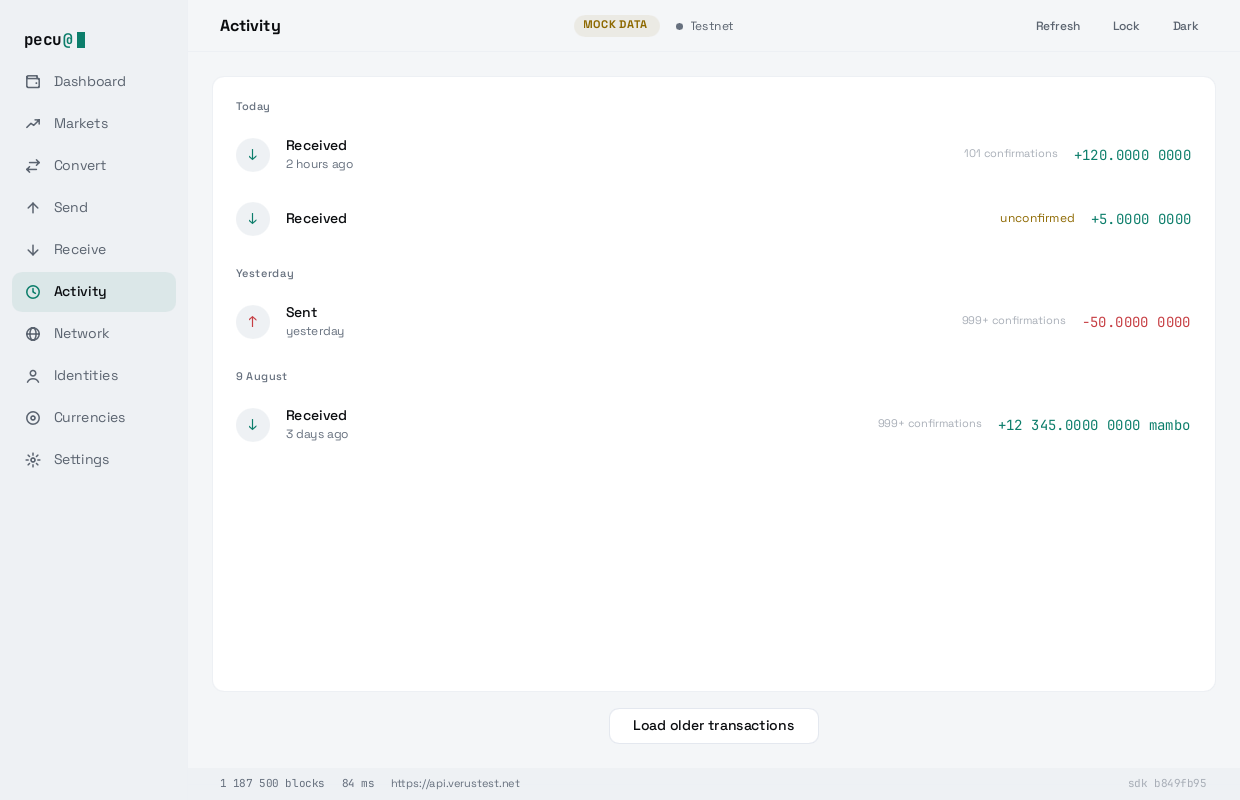
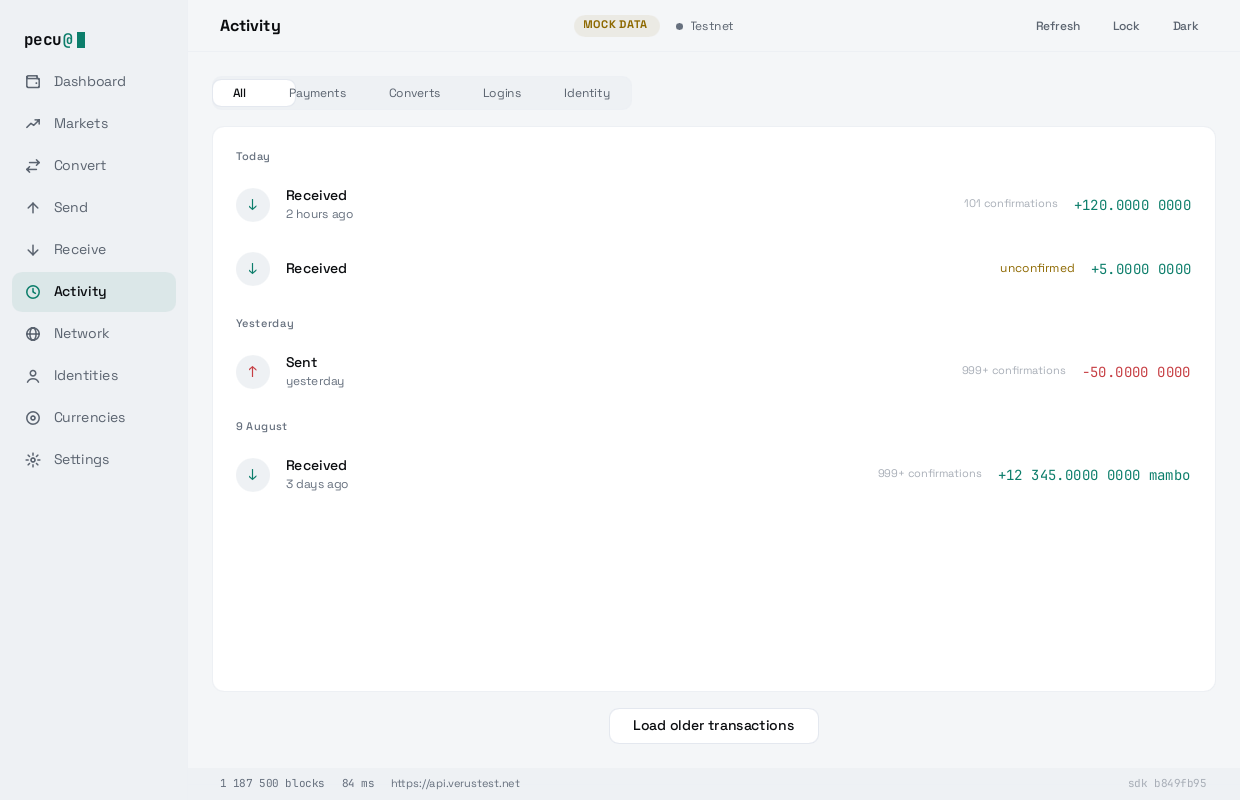
Give history its filters, and find out where they have to live
The design's activity screen: a summary strip, filter chips, day
headings, and rows that look like what they are rather than all like a
payment. A login, a conversion and an identity action each get their own
mark, title and subtitle.

Three of the four kinds cannot be produced by this wallet. History is
read from address deltas and none of them is one — they arrive when VDXF
consent, the conversion flow and `getidentityhistory` do. They are
fixtures here so the shapes are settled and photographed before the
features land, rather than being designed in a hurry on the day.

## The filter had to move into the core, and the reason is mechanical

The first attempt filtered in `.slint`. Equality against `kind` is
something Slint *can* express — unlike the substring test the command
palette needed — so non-matching rows got `visible: false` and a zeroed
height.

**A `ListView` places its items by their preferred height.** Six rows
drew in two slots, on top of each other. That is not a bug in the trick;
it is what virtualisation means, and no arrangement of it works: the list
needs exactly one element per model row.

So `Command::SetHistoryFilter` goes to the core, which filters and
re-sends. That is where it belonged anyway — filtering and **paging** are
one question, because "load older" reads the next window of blocks rather
than the next twenty rows of a kind, and only the side holding the list
can reconcile the two.
[…]

diff --git a/crates/pecu-ui/src/fixtures.rs b/crates/pecu-ui/src/fixtures.rs
@@ -24,8 +24,8 @@ use crate::{
     CurrencyProblem, CurrencyRow, CurrencySlice, CurrencyState, EligibleIdentity, FlowStep,
     ConvertState, IdentityRow, IdentityState, KeyRow, KnownAddressRow, MarketRow, MarketState,
     NetworkState, NodeRow, PendingRow,
-    PreallocEntry, ReserveEntry, ReviewOutput, SearchHit, SearchState, SeedState, SeedWord,
-    SendState, Stat, TxState, Venue, WalletState,
+    ActivityState, PreallocEntry, ReserveEntry, ReviewOutput, SearchHit, SearchState, SeedState,
+    SeedWord, SendState, Stat, TxState, Venue, WalletState,
 };
 
 /// A conversion being priced.
@@ -96,6 +96,74 @@ pub fn converting_refused(ui: &AppWindow) {
             .into(),
     );
     state.set_ready(false);
+}
+
+/// The history screen with every kind of row on it.
+///
+/// Three of the four kinds cannot be produced by this wallet — see
+/// `activity_of`. They are here so the filters, the marks and the subtitles are
+/// settled and photographed before the features behind them land, rather than
+/// being designed in a hurry on the day they do.
+pub fn history(ui: &AppWindow) {
+    funded(ui);
+    ui.set_screen("activity".into());
+
+    let wallet = ui.global::<WalletState>();
+    wallet.set_history(ModelRc::from(Rc::new(VecModel::from(vec![
+        dated("in", "+120.0000 0000", "14:02", "Today", 1_187_400),
+        activity_of(
+            "login",
+            "forum.verus.io · as robert.VRSCTEST@",
+            "—",
+            "13:40",
+            "",
+        ),
+        dated("out", "−50.0000 0000", "11:38", "", 1_187_380),
+        activity_of(
+            "convert",
+            "250 VRSCTEST → 134.12 DAI.vETH · via Bridge.vETH",
+            "250.0000 0000",
+            "09:15",
+            "",
+        ),
+        activity_of(
+            "identity",
+            "Recovery address changed",
+            "—",
+            "08:05",
+            "Yesterday",
+        ),
+        dated("in", "+5.0000 0000", "pending", "", 0),
+    ]))));
+
+    // Invented, like every other summary figure in this build. The core counts
+    // none of these yet.
+    ui.global::<ActivityState>()
+        .set_stats(ModelRc::from(Rc::new(VecModel::from(vec![
+            Stat {
+                label: "Transactions · 30d".into(),
+                value: "48".into(),
+            },
+            Stat {
+                label: "Sent · 30d".into(),
+                value: "3 410.00".into(),
+            },
+            Stat {
+                label: "Received · 30d".into(),
+                value: "5 102.00".into(),
+            },
+            Stat {
+                label: "Sign-ins · 30d".into(),
+                value: "12".into(),
+            },
+        ]))));
+}
+
+/// The same list with one filter applied, which is the state the filters exist
+/// for and the one that shows what they do to a short list.
+pub fn history_filtered(ui: &AppWindow) {
+    history(ui);
+    ui.global::<ActivityState>().set_filter("payment".into());
 }
 
 /// The markets table, with nothing picked.
@@ -791,6 +859,29 @@ fn activity_in(
         pending,
         height: 0,
         group: group.into(),
+        kind: "payment".into(),
+        note: "".into(),
+    }
+}
+
+/// A row that is not a payment: a login, an identity action, a conversion.
+///
+/// None of these can be produced by this wallet yet — history is read from
+/// address deltas, and none of the three is one. They exist so the filters and
+/// the row styling have something to be photographed against, and so the shapes
+/// are settled before the features arrive.
+fn activity_of(kind: &str, note: &str, amount: &str, when: &str, group: &str) -> ActivityRow {
+    ActivityRow {
+        txid: "fixture-not-a-real-transaction".into(),
+        txid_short: "fixtu…ction".into(),
+        direction: "self".into(),
+        amount: amount.into(),
+        when: when.into(),
+        pending: false,
+        height: 1_187_400,
+        group: group.into(),
+        kind: kind.into(),
+        note: note.into(),
     }
 }
 

diff --git a/crates/pecu-core/src/lib.rs b/crates/pecu-core/src/lib.rs
@@ -127,6 +127,7 @@ pub fn start(
         last_draft: pecu_protocol::SendDraft::default(),
         identities: std::collections::BTreeMap::new(),
         currencies: Vec::new(),
+        history_filter: "all".to_string(),
         eligible: Vec::new(),
         launch_fees: None,
         currency_catalog: Catalog::Unasked,
@@ -233,6 +234,13 @@ struct Core {
     /// re-read on every emission because the walk costs one request per
     /// identity.
     currencies: Vec<pecu_protocol::CurrencyVm>,
+    /// Which kind of history row is being looked at. `"all"` by default.
+    ///
+    /// Held here rather than in the interface because filtering and **paging**
+    /// are the same question: "load older" fetches the next window of blocks,
+    /// and how many rows of a given kind that yields is something only the side
+    /// holding the list can answer.
+    history_filter: String,
     eligible: Vec<pecu_protocol::EligibleIdentityVm>,
     /// What a launch costs on this chain, once it has been asked. See
     /// `ensure_launch_fees`.
@@ -1172,7 +1180,7 @@ impl Core {
 
         store.save_snapshot(
             portfolio,
-            &portfolio::rows_from(&self.history.entries, &self.cached.names, now()),
+            &portfolio::rows_from(&self.history.entries, &self.cached.names, now(), "all"),
             now(),
         );
 
@@ -1288,6 +1296,10 @@ impl Core {
                 self.search_currencies(query, exclude);
             }
             Command::Search { query } => self.search(&query),
+            Command::SetHistoryFilter { kind } => {
+                self.history_filter = kind;
+                self.emit_history();
+            }
             Command::PrepareLaunch(draft) => self.prepare_launch(&draft),
             Command::StartCurrencyFromNewName {
                 revocation_authority,
@@ -1633,7 +1645,8 @@ impl Core {
     /// hundred rows and carries no in-flight transitions, so there is nothing
     /// for a delta to protect.
     fn emit_history(&self) {
-        let rows = portfolio::rows_from(&self.history.entries, &self.cached.names, now());
+        let rows =
+            portfolio::rows_from(&self.history.entries, &self.cached.names, now(), &self.history_filter);
         let _ = self.events.send(Event::History {
             key: String::new(),
             delta: pecu_protocol::ListDelta::Replace(rows),

diff --git a/crates/pecu-core/src/portfolio.rs b/crates/pecu-core/src/portfolio.rs
@@ -461,7 +461,7 @@ impl Reading {
         let Ok(entries) = &self.history else {
             return Vec::new();
         };
-        rows_from(entries, &self.names, now)
+        rows_from(entries, &self.names, now, "all")
     }
 }
 
@@ -474,10 +474,17 @@ impl Reading {
 /// everything already on screen: a day heading is a statement about the row
 /// above, and appending a page without redoing them would print "Yesterday"
 /// twice.
+/// `kind` keeps only rows of that kind; `"all"` keeps everything.
+///
+/// Applied **before** the heading pass below, which is the only place it can go.
+/// The day headings are assigned by comparing each row with the one before it,
+/// so filtering afterwards would strand a heading on a row that was removed and
+/// leave the next day without one.
 pub fn rows_from(
     entries: &[HistoryEntry],
     names: &BTreeMap<CurrencyId, String>,
     now: i64,
+    kind: &str,
 ) -> Vec<HistoryRowVm> {
     // `net_currencies` is keyed by i-address and `names` by `CurrencyId`, so
     // the two need bridging before a row can say "mambo" instead of a fragment
@@ -491,6 +498,7 @@ pub fn rows_from(
         .iter()
         .rev()
         .map(|entry| row(entry, now, &by_address))
+        .filter(|row| kind == "all" || row.kind == kind)
         .collect();
 
     // The heading goes on the first row of each day. Done after the rows
@@ -669,6 +677,14 @@ fn row(entry: &HistoryEntry, now: i64, named: &BTreeMap<String, String>) -> Hist
         // Filled in by `rows`, which can see the row before this one.
         group: String::new(),
         pending: entry.height == 0,
+        // Everything this path produces is a payment. It reads address deltas,
+        // and a delta is money moving — a login, a conversion or an identity
+        // action reaches this list from somewhere that does not exist yet.
+        kind: "payment".to_string(),
+        // And for the same reason there is nothing to put here: a delta names
+        // no counterparty, so the honest subtitle is the time, which the row
+        // already carries.
+        note: String::new(),
     }
 }
 

diff --git a/crates/pecu-protocol/src/models.rs b/crates/pecu-protocol/src/models.rs
@@ -798,6 +798,34 @@ pub struct HistoryRowVm {
     /// and because a calendar day is a fact about a timezone, not about a list.
     pub group: String,
     pub pending: bool,
+    /// "payment" · "convert" · "login" · "identity".
+    ///
+    /// What sort of thing happened, which is what the filters act on. Carried
+    /// rather than inferred from the amount: a declined login and an identity
+    /// update both move nothing, and telling them apart by their emptiness is
+    /// not telling them apart.
+    ///
+    /// Only `payment` is produced today. The other three are the shapes the
+    /// design's history has, and they arrive when the features behind them do
+    /// — a login needs VDXF consent, a convert needs the conversion flow, and
+    /// an identity action needs `getidentityhistory` folded into this list.
+    ///
+    /// `serde(default)` because this list is **cached on disk**, and a snapshot
+    /// written before this field existed has no key for it.
+    /// `Store::load_snapshot` deserialises with `.ok()?`, so a missing field
+    /// does not fail loudly — it silently discards the whole cached history and
+    /// every existing wallet comes up empty until it has re-read the chain.
+    #[serde(default)]
+    pub kind: String,
+    /// The line under the title: what this was, in the words of the thing it
+    /// was. "via Bridge.vETH", "as robert.VRSCTEST@", "Recovery address
+    /// changed". Empty when the time alone says enough.
+    ///
+    /// **Not the counterparty for a payment.** History is read from address
+    /// deltas and a delta names nobody — that is a property of how the chain is
+    /// queried, not an omission here.
+    #[serde(default)]
+    pub note: String,
 }
 
 #[derive(Clone, Debug, Default, PartialEq, Eq, Serialize, Deserialize)]

diff --git a/crates/pecu-app/src/main.rs b/crates/pecu-app/src/main.rs
@@ -300,6 +300,7 @@ fn home_dir() -> PathBuf {
 /// so the surface worth reviewing closely is two short functions rather than a
 /// search through one long one.
 fn wire_actions(ui: &AppWindow, dispatcher: Dispatcher) {
+    wire_history(ui, dispatcher.clone());
     wire_search(ui, dispatcher.clone());
     wire_wallet(ui, dispatcher.clone());
     wire_backup(ui, &dispatcher);
@@ -1177,6 +1178,20 @@ fn wire_identity_writes(ui: &AppWindow, dispatcher: &Dispatcher) {
 /// already at the length where a reader stops holding the whole thing in their
 /// head — and this is the one part of the shell that talks to the core on every
 /// keystroke, so it is worth being able to find.
+/// The history filter.
+///
+/// One line of wiring, and it is in the core for a reason worth keeping in view:
+/// a `ListView` cannot skip rows, and paging a filtered list is a question only
+/// the side holding the list can answer. See `Command::SetHistoryFilter`.
+fn wire_history(ui: &AppWindow, dispatcher: Dispatcher) {
+    let activity = ui.global::<pecu_ui::ActivityState>();
+    activity.on_filter_changed(move |kind| {
+        dispatcher.send(Command::SetHistoryFilter {
+            kind: kind.to_string(),
+        });
+    });
+}
+
 fn wire_search(ui: &AppWindow, dispatcher: Dispatcher) {
     let search = ui.global::<pecu_ui::SearchState>();
 

diff --git a/crates/pecu-protocol/src/command.rs b/crates/pecu-protocol/src/command.rs
@@ -369,6 +369,17 @@ pub enum Command {
         /// Matched against name and i-address, ignoring case.
         query: String,
     },
+    /// Which kind of history row to show: `"all"`, `"payment"`, `"convert"`,
+    /// `"login"`, `"identity"`.
+    ///
+    /// In the core rather than the interface, and not by preference. A
+    /// `ListView` needs exactly one element per model row to page at all, so a
+    /// conditional row breaks it — measured, by breaking it. And the filter and
+    /// the paging are the same question anyway: "load older" reads the next
+    /// window of blocks, not the next twenty rows of a kind.
+    SetHistoryFilter {
+        kind: String,
+    },
     /// Build and sign the launch. Nothing is sent — the review that follows is
     /// decoded from the transaction this produced.
     PrepareLaunch(CurrencyDraft),

diff --git a/crates/pecu-ui/examples/scroll_cost.rs b/crates/pecu-ui/examples/scroll_cost.rs
@@ -79,6 +79,14 @@ fn row(index: usize) -> ActivityRow {
         height: 1_000_000 - i32::try_from(index).unwrap_or(0),
         // A day heading every twentieth row, so the taller variant of the row
         // is represented rather than measuring the cheapest one.
+        kind: "payment".into(),
+        // A subtitle on every fifth row, so the measurement includes the row
+        // that has one rather than only the cheapest shape.
+        note: if index.is_multiple_of(5) {
+            "via Bridge.vETH".into()
+        } else {
+            "".into()
+        },
         group: if index.is_multiple_of(20) {
             "13 August"
         } else {

diff --git a/crates/pecu-ui/src/snapshot.rs b/crates/pecu-ui/src/snapshot.rs
@@ -193,6 +193,8 @@ pub const CASES: &[Case] = &[
     ("convert", "convert", crate::fixtures::converting),
     ("convert", "convert-thin", crate::fixtures::converting_thin),
     ("convert", "convert-refused", crate::fixtures::converting_refused),
+    ("activity", "history", crate::fixtures::history),
+    ("activity", "history-filtered", crate::fixtures::history_filtered),
     ("activity", "activity", crate::fixtures::funded),
     ("activity", "tx-detail", crate::fixtures::tx_detail),
     ("send", "send-form", crate::fixtures::sending),

diff --git a/crates/pecu-ui/tests/accessibility.rs b/crates/pecu-ui/tests/accessibility.rs
@@ -91,6 +91,7 @@ const SCREENS: &[Screen] = &[
     ("markets", pecu_ui::fixtures::market_detail),
     ("convert", pecu_ui::fixtures::converting),
     ("convert", pecu_ui::fixtures::converting_refused),
+    ("activity", pecu_ui::fixtures::history),
     ("send", pecu_ui::fixtures::sending),
     ("send", pecu_ui::fixtures::sending_too_much),
     ("nodes", pecu_ui::fixtures::network_trouble),

diff --git a/crates/pecu-app/src/bridge.rs b/crates/pecu-app/src/bridge.rs
@@ -1067,6 +1067,8 @@ fn activity_row(row: &HistoryRowVm) -> ActivityRow {
         pending: row.pending,
         height: i32::try_from(row.height).unwrap_or(i32::MAX),
         group: row.group.clone().into(),
+        kind: row.kind.clone().into(),
+        note: row.note.clone().into(),
     }
 }
 
